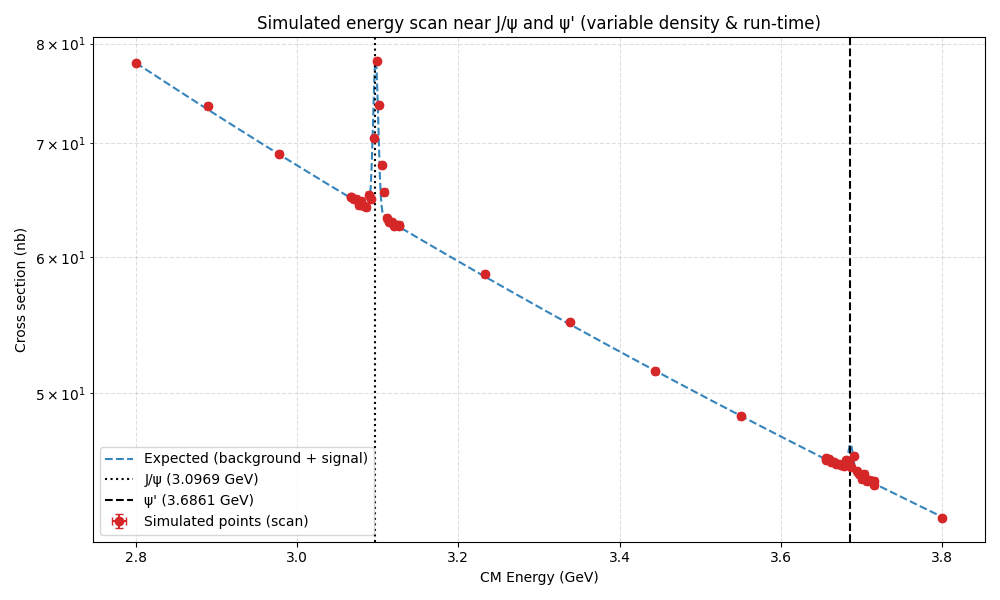
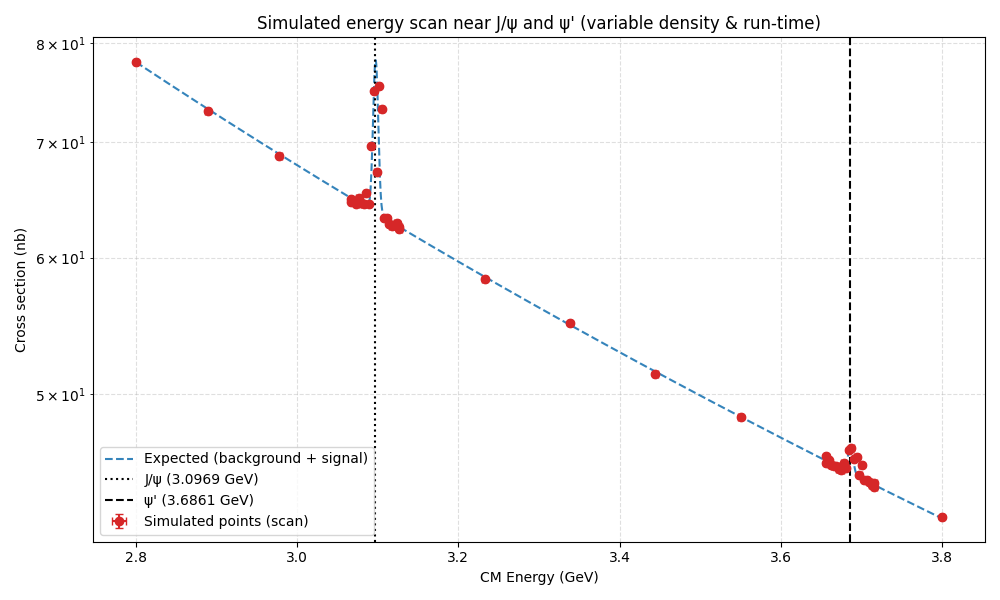
minor

diff --git a/j_psi2.py b/j_psi2.py
@@ -111,7 +111,7 @@ sigma_total = sigma_b_vals + sigma_res1_smeared + sigma_res2_smeared
 # -----------------
 
 # Machine instantaneous luminosity: 2e30 cm^-2 s^-1 -> in nb^-1 s^-1
-L_int = 5e-3 * 3600*500 # nb^-1 in 500 hours
+L_int = 5e-3 * 3600*200 # nb^-1 in 200 hours
 
 # Scan strategy: denser near resonances
 M_jpsi = 3.0969
